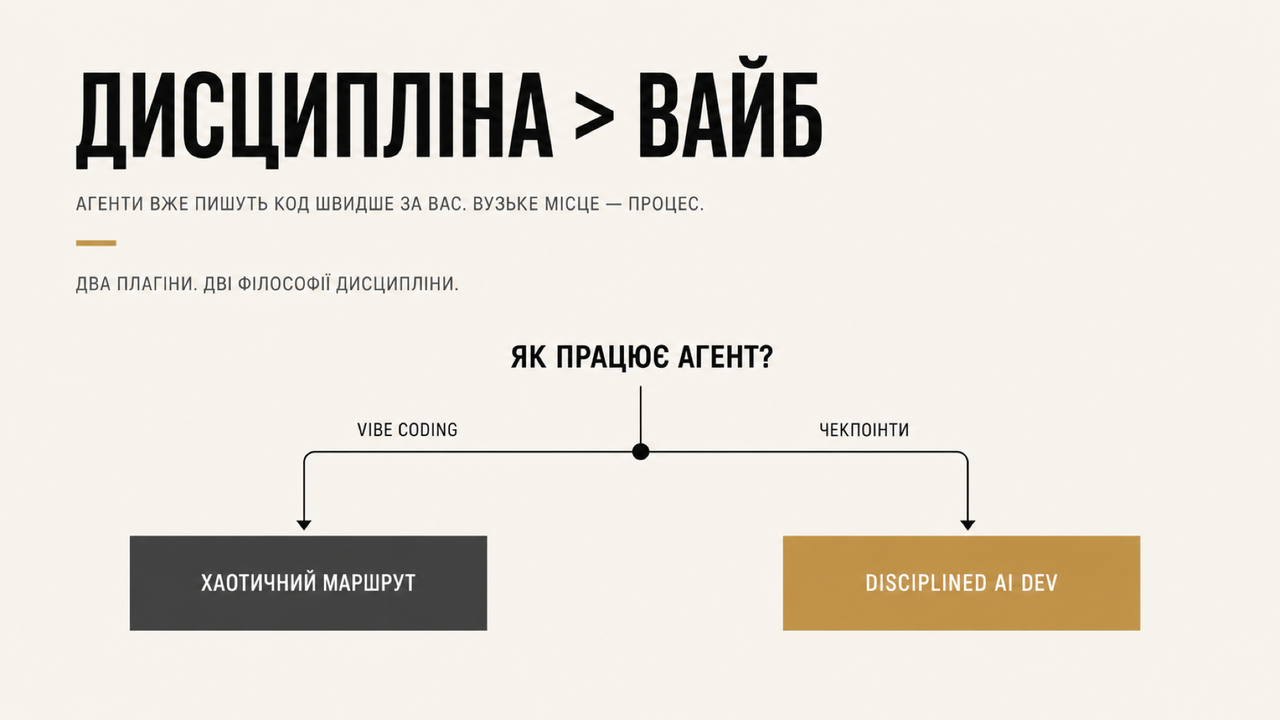
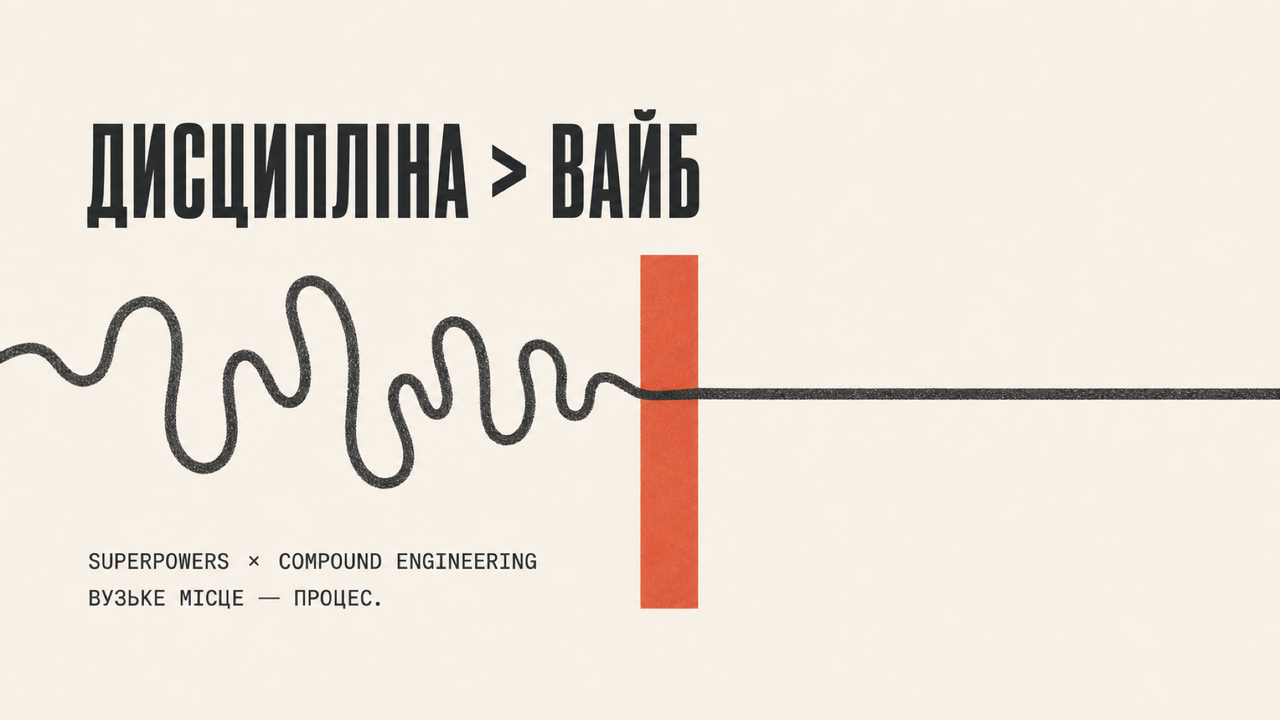
chore

Changed region(s): [[0.0, 0.0611, 1.0, 0.8556], [0.0625, 0.7028, 0.4375, 0.8861], [0.5938, 0.7028, 0.9062, 0.8861]]

diff --git a/pilots/02-superpowers-vs-compound-engineering/evaluation/review.md b/pilots/02-superpowers-vs-compound-engineering/evaluation/review.md
@@ -7,16 +7,16 @@ All three normalized candidates for every slide were inspected together at `1920
 ## Slide 01 — Discipline over vibe
 
 - Candidates: `01-discipline-over-vibe-v1.png`, `01-discipline-over-vibe-v2.png`, `01-discipline-over-vibe-v3.png`.
-- Rejected v1: the branch is denser and the paired outcomes read more like closed cards than open terminal states.
-- Rejected v2: the branch remains boxier and gives the two outcomes more visual weight than the decision itself.
-- **Selected:** `01-discipline-over-vibe-v3.png`
-- Selection rationale: the quietest Decision Tree, clearest question-to-branch reading order, and strongest contrast between the chaotic route and checkpoint route.
-- Exact-copy review: pass. Every manifest string appears once; no extra visible text.
+- Rejected v2: the full-height chevron clips at both canvas edges and turns the greater-than symbol into a dominant poster object without explaining how process creates discipline.
+- Rejected v3: the architectural single-line balance is clean but noticeably more static and does not visualize the change from improvisation to controlled execution.
+- **Selected:** `01-discipline-over-vibe-v1.png`
+- Selection rationale: the user-selected `Compression Gate` concept gives the opening the clearest causal image: one irregular graphite trace crosses a single coral process gate and exits straight, making disciplined execution visible rather than merely asserted.
+- Exact-copy review: pass. `ДИСЦИПЛІНА > ВАЙБ`, `SUPERPOWERS × COMPOUND ENGINEERING`, and `ВУЗЬКЕ МІСЦЕ — ПРОЦЕС.` each appear once; no superseded branch copy or extra visible text remains.
 - Dimensions/color mode: pass, `1920×1080` RGB PNG. Preview: `1280×720` RGB PNG.
-- Clipping/contrast/reading order: pass. Visual mechanism and expression A: pass.
-- Removable-element check: pass; question node, two branches, and two terminal fields all carry meaning.
[2 lines of base64/hex data omitted]
+- Clipping/contrast/reading order: pass. Hero mechanism and expression C: pass.
+- Removable-element check: pass; the irregular trace is the uncontrolled input, the coral gate is the process intervention, and the straight trace is the disciplined output. Together they render one transformation Signal.
[2 lines of base64/hex data omitted]
 
 ## Slide 02 — Bare-agent failures
 
@@ -118,7 +118,7 @@ All three normalized candidates for every slide were inspected together at `1920
 
 ## Series-level review
 
-- Rhythm review: pass — `A, A, B, A, B, A, C, A`; slide 7 is the sole Level C peak.
+- Rhythm review: pass — `C, A, B, A, B, A, C, A`; the opening Hero and Slide 07 principle are two separated Level C peaks.
 - Sequence review: pass — problem → within-task process → between-task learning → comparison → synthesis → principle → action.
 - Family review: pass — warm paper, graphite typography, open fields, thin carriers/dividers, and restrained mineral Signals remain consistent.
 - Exact-copy review: pass for all eight canonicals.

diff --git a/STATUS.md b/STATUS.md
@@ -13,7 +13,7 @@ The README Visual examples section now uses a dedicated English `1920x1080` RGB 
 
 The repository-local `csdl-create` integration is Codex-only. Its canonical skill source and `.codex/skills/csdl-create` discovery symlink use built-in Codex image generation.
 
-Pilot 02 is complete under `pilots/02-superpowers-vs-compound-engineering/`. The additive eight-slide Ukrainian series compares Superpowers and Compound Engineering as orthogonal disciplines for within-task execution and between-task knowledge capture; its central comparison uses the user-approved three-row scope of value, emphasis, and risk, its culmination uses the standard Ukrainian term `інструмент`, and its closing slide now gives current installation paths for both Codex and Claude Code. It includes 24 reviewed GPT Image 2 candidates, eight exact-copy `1920×1080` RGB canonicals, eight `1280×720` previews, one centered `3840×2160` contact sheet, current primary-source fact mapping, Prompt DSL v0.5 packages, hashes, selection evidence, and passing rubric scores. The work does not alter Pilot 01, any previously accepted raster, Prompt DSL v0.5, the fifteen-component vocabulary, the 23-recipe library, or the completed Milestone 7 publication contract.
+Pilot 02 is complete under `pilots/02-superpowers-vs-compound-engineering/`. The additive eight-slide Ukrainian series compares Superpowers and Compound Engineering as orthogonal disciplines for within-task execution and between-task knowledge capture; it opens with the user-selected dynamic Hero/C `Compression Gate` transformation from an irregular trace to a straight one through a single coral process gate, its central comparison uses the user-approved three-row scope of value, emphasis, and risk, its culmination uses the standard Ukrainian term `інструмент`, and its closing slide gives current installation paths for both Codex and Claude Code. It includes 24 reviewed GPT Image 2 candidates, eight exact-copy `1920×1080` RGB canonicals, eight `1280×720` previews, one centered `3840×2160` contact sheet, current primary-source fact mapping, Prompt DSL v0.5 packages, hashes, selection evidence, and passing rubric scores. The work does not alter Pilot 01, accepted raster evidence outside Pilot 02, Prompt DSL v0.5, the fifteen-component vocabulary, the 23-recipe library, or the completed Milestone 7 publication contract.
 
 An additive seven-slide English demo infographic is available under `docs/demo-infographic/`. It translates the original five-slide explanatory sequence, adds a Recipes bridge and a human/agent parity slide, and includes exact-copy prompts, 21-candidate selection evidence, seven `1920×1080` RGB PNG files, and one `3840×2160` contact sheet. It is documentation-only, does not begin Milestone 8, and does not modify any accepted raster evidence or versioned CSDL contract.
 

diff --git a/pilots/02-superpowers-vs-compound-engineering/README.md b/pilots/02-superpowers-vs-compound-engineering/README.md
@@ -13,7 +13,7 @@ Eight-slide Ukrainian CSDL presentation series comparing two process-oriented ap
 - eight `1280×720` landscape previews;
 - one `3840×2160` contact sheet;
 - Prompt DSL v0.5 packages, source map, scores, and selection evidence;
-- no change to Pilot 01 or any previously accepted raster.
+- no change to Pilot 01 or accepted raster evidence outside this explicitly revised Pilot 02 series.
 
 ## Source of truth
 
@@ -21,4 +21,4 @@ Visible copy, Recipe choice, components, mechanisms, and expression levels live 
 
 ## Status
 
-Complete. Twenty-four normalized candidates were reviewed, eight canonical slides were promoted, all exact-copy and rubric gates pass, and the final preview/contact-sheet package is available under `previews/landscape/` and `contact-sheets/pilot-02-light.png`.
+Complete. Twenty-four normalized candidates were reviewed, eight canonical slides were promoted, Slide 01 now uses the user-selected dynamic Hero/C `Compression Gate` transformation, all exact-copy and rubric gates pass, and the final preview/contact-sheet package is available under `previews/landscape/` and `contact-sheets/pilot-02-light.png`.

diff --git a/CHANGELOG.md b/CHANGELOG.md
@@ -2,6 +2,7 @@
 
 ## Unreleased
 
+- Rebuilt Pilot 02 Slide 01 from a quiet Decision Tree/A explanation into the user-selected dynamic Hero/C `Compression Gate` hook, where one irregular trace crosses a coral process gate and exits straight; refreshed the canonical, preview, contact sheet, Prompt DSL, and review/hash evidence while preserving exact copy and the `C, A, B, A, B, A, C, A` rhythm.
 - Added a dedicated English `1920x1080` README Visual examples slide, selected from three GPT Image 2 candidates with persisted prompt, exact-copy review, hashes, and normalization evidence; accepted Visual DNA rasters remain unchanged.
 - Removed the Claude discovery surface for `csdl-create` and made its skill metadata, root README, and project status explicitly Codex-only; built-in Codex image generation remains the single supported route.
 - Reworked Pilot 02 Slide 08 into parallel Codex and Claude Code installation paths for Superpowers and Compound Engineering, regenerated and reviewed three exact-copy candidates, and refreshed its canonical, source snapshot, hashes, and review evidence.
